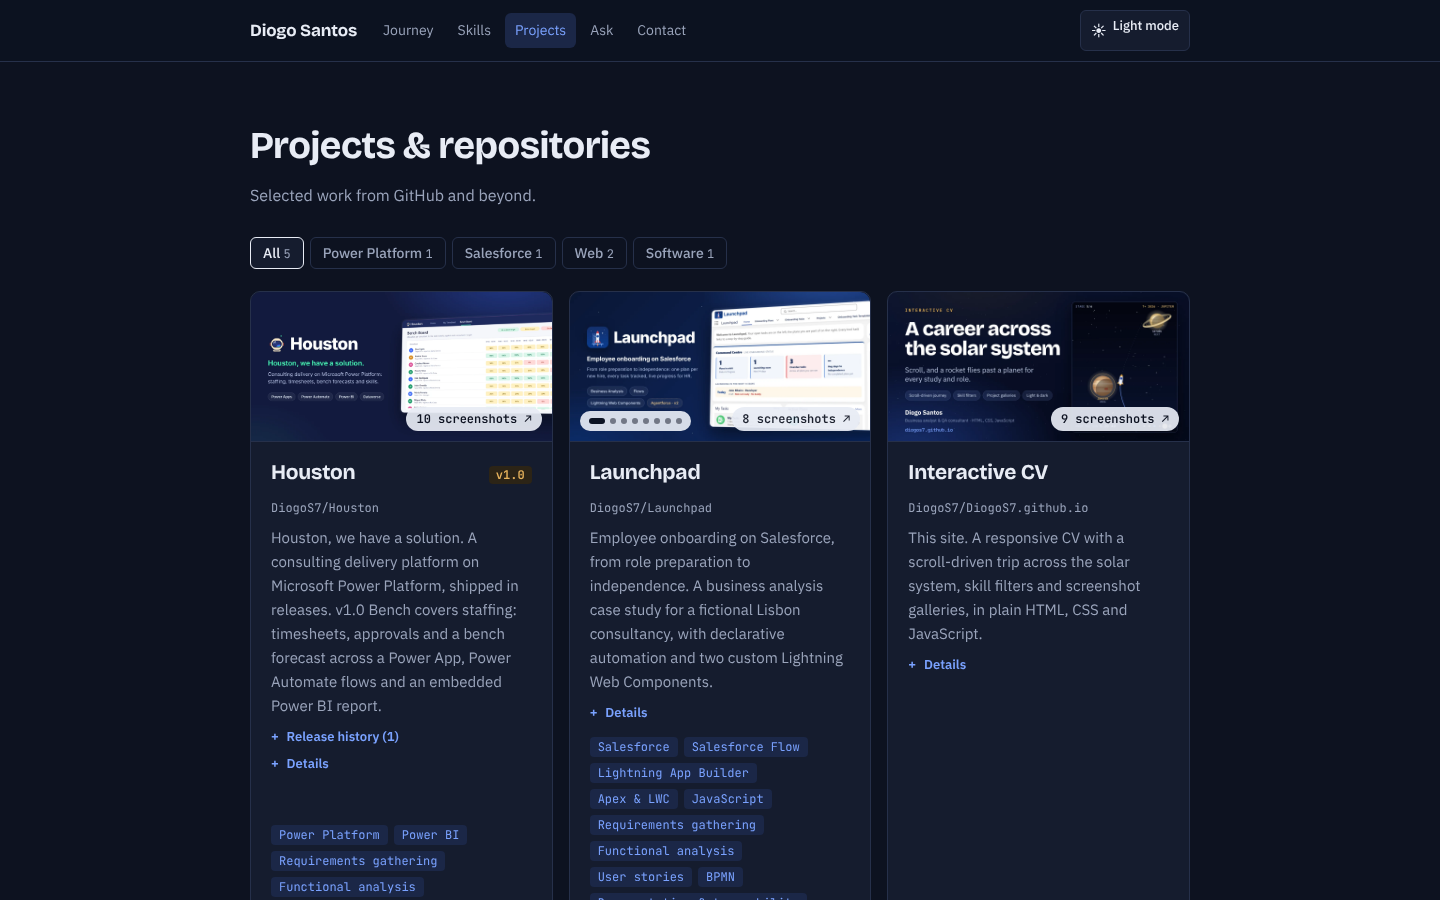
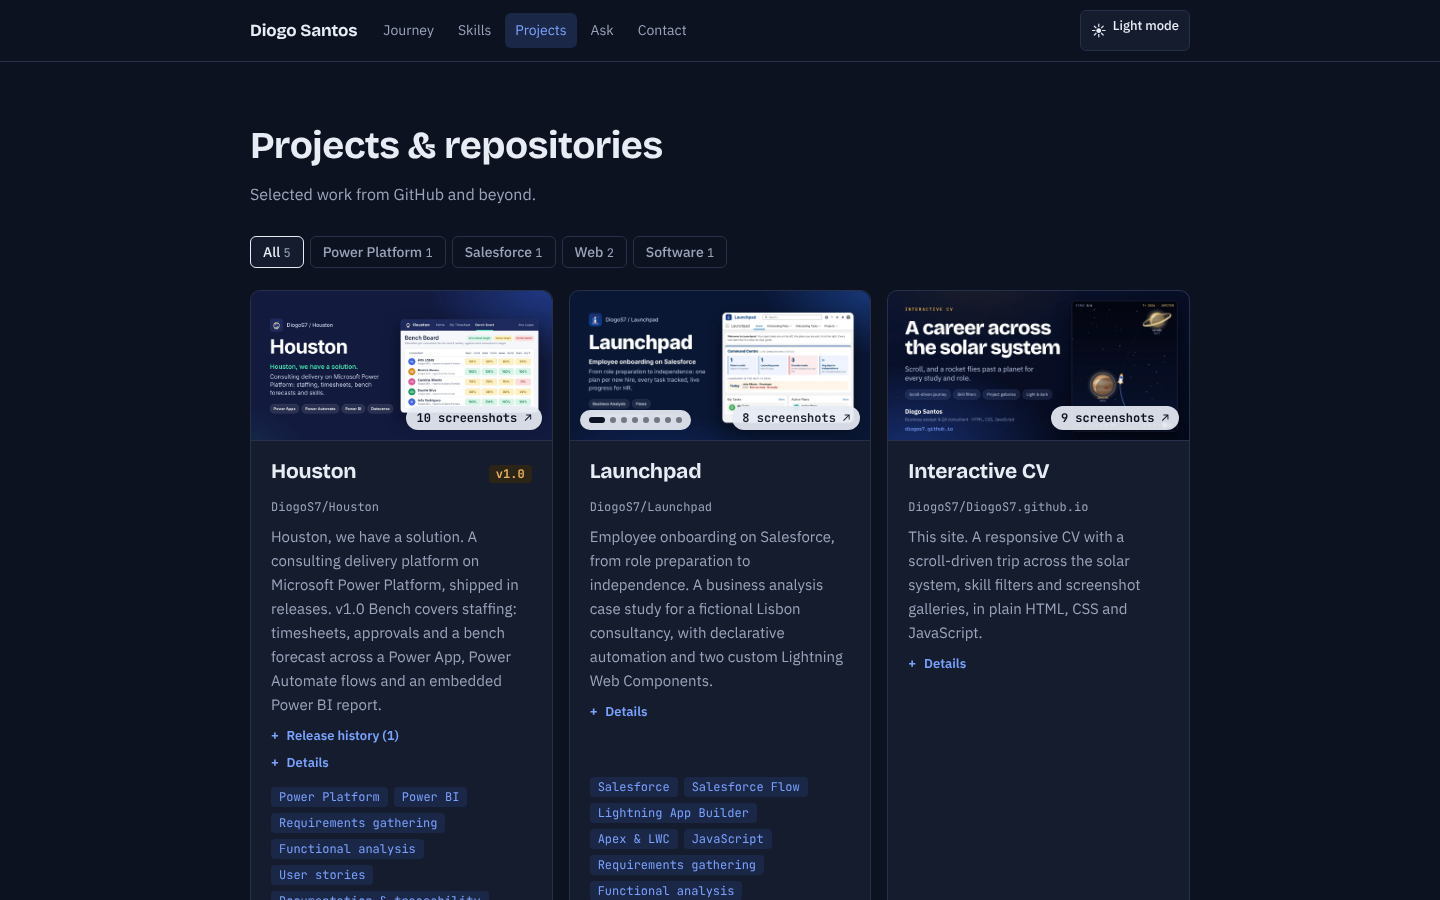
Screenshots: project cards and gallery show the new Houston and Launchpad covers

diff --git a/assets/js/data.js b/assets/js/data.js
@@ -103,9 +103,9 @@ const CV = {
         {src:"assets/img/shots/cv-journey.webp?v=20261101-2", caption:"Journey: the rocket reaches Jupiter, my current role as a QA consultant"},
         {src:"assets/img/shots/cv-journey-next.webp?v=20261101-2", caption:"Journey: Saturn, the next mission"},
         {src:"assets/img/shots/cv-skills.webp?v=20261124", caption:"Skills filtered to Python, highlighting matching work"},
-        {src:"assets/img/shots/cv-projects.webp?v=20261118-2", caption:"Project cards with hover slideshows"},
-        {src:"assets/img/shots/cv-gallery.webp?v=20261118-2", caption:"Screenshot gallery with arrows, thumbnails and swipe"},
-        {src:"assets/img/shots/cv-projects-dark.webp?v=20261118-2", caption:"Dark theme"},
+        {src:"assets/img/shots/cv-projects.webp?v=20261124", caption:"Project cards with hover slideshows"},
+        {src:"assets/img/shots/cv-gallery.webp?v=20261124", caption:"Screenshot gallery with arrows, thumbnails and swipe"},
+        {src:"assets/img/shots/cv-projects-dark.webp?v=20261124", caption:"Dark theme"},
         {src:"assets/img/shots/cv-phone-journey.webp?v=20261101-2", caption:"Phone layout with the flight pinned to the top"},
       ],
       details:["Canvas animation of a rocket flying from Mercury to interstellar space as you scroll","Skill filters dim projects and milestones that don't use the skill","Screenshot galleries with keyboard and swipe support","Light and dark themes; works from phone to desktop; no frameworks or build step"] },

diff --git a/index.html b/index.html
@@ -122,7 +122,7 @@
   </div>
 </div>
 <footer><div class="wrap">© 2026 Diogo Santos · BA/QA consultant · Lisbon, Portugal</div></footer>
-<script src="assets/js/data.js?v=20261124b"></script>
+<script src="assets/js/data.js?v=20261124c"></script>
 <script src="assets/js/app.js?v=20261123"></script>
 <script src="assets/js/ask.js?v=20261124"></script>
 </body>
